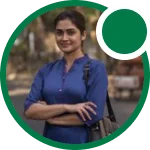
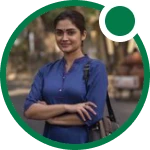
Restore the open book's depth and tease the shelf books
The v2 export had flattened both open-book states: no gutter, no board
sheen, and a contact shadow that sat under the shut cover instead of
arriving when the book lies open. Ported the numbers from the Android
build (ui/book) so the two stay in step, and matched the Figma
component's four parts: contact shadow, spread, gutter, pill.

Also: Monthly Relationship is now pitched in Kundli Milan's shelf (it
was pitched nowhere), the My Reports shelf books tease on alternating
0.7s/2.5s delays, and the avatar's "available" dot is a fresh export of
4097:12105 (it had shipped at 15px against Figma's 10px).

Changed region(s): [[0.64, 0.0267, 0.9867, 0.4]]

diff --git a/app.css b/app.css
@@ -325,16 +325,28 @@ img{display:block}
 .dp-book{position:absolute;left:50%;top:calc(274px + var(--sb) - 14px);width:211px;height:150px;margin-left:-105.5px;z-index:3;perspective:1100px}
 .dp-book .bk-move{position:absolute;inset:0;animation:bkRise .5s cubic-bezier(.22,.9,.3,1) .1s both,bkCenter 1.9s cubic-bezier(.33,1,.68,1) .9s both}
 .dp-book .spread{position:absolute;left:14px;top:14px;width:183px;height:122.8px;animation:bkReveal 1.9s steps(1,end) .9s both}
-.dp-book::after{content:"";position:absolute;left:31px;right:31px;top:126px;height:16px;border-radius:50%;background:radial-gradient(50% 50% at 50% 50%,rgba(74,24,8,.34),rgba(74,24,8,0) 72%);filter:blur(4px);z-index:-1}
+/* The book's weight on the hero. It only makes sense once the book is lying open,
+   so it arrives with the gutter rather than sitting under the shut cover. */
+.dp-book::after{content:"";position:absolute;left:31px;right:31px;top:126px;height:16px;border-radius:50%;background:radial-gradient(50% 50% at 50% 50%,rgba(74,24,8,.34),rgba(74,24,8,0) 72%);filter:blur(4px);z-index:-1;opacity:0;animation:fadeIn .5s ease 2.5s forwards}
+/* The gutter: both pages fall away into the spine, so the centre line is the
+   darkest part of the spread. Without it the open book reads as one flat card.
+   Multiplied, so it darkens the artwork instead of greying it. */
+.dp-book .bk-move::after{content:"";position:absolute;left:94.5px;top:22px;width:22px;height:103.8px;z-index:4;pointer-events:none;mix-blend-mode:multiply;opacity:0;animation:fadeIn .5s ease 2.5s forwards;
+  background:linear-gradient(90deg,rgba(142,97,72,0) 0,rgba(142,97,72,.30) 44%,rgba(142,97,72,.36) 50%,rgba(142,97,72,.30) 56%,rgba(142,97,72,0) 100%)}
 .dp-book .hinge{position:absolute;left:105.5px;top:18px;width:80px;height:114.5px;transform-style:preserve-3d}
 .dp-book .cov{position:absolute;inset:0;transform-origin:0 50%;transform-style:preserve-3d;animation:bkOpen 1.9s cubic-bezier(.33,1,.68,1) .9s both}
 .dp-book .cov span{position:absolute;inset:0;backface-visibility:hidden;-webkit-backface-visibility:hidden}
 .dp-book .cov .f{background-size:cover;background-position:center;border-radius:1px 4px 4px 1px;box-shadow:3px 0 0 rgba(74,24,8,.25),-6px 10px 20px -8px rgba(74,24,8,.45)}
+/* The hinge crease beside the spine: dark line, lit ridge, dark line, flat board,
+   all inside the first 9% of the board. */
 .dp-book .cov .f::before{content:"";position:absolute;inset:0;background:linear-gradient(90deg,rgba(0,0,0,.18) 0,rgba(255,255,255,.25) 3%,rgba(0,0,0,.1) 5%,transparent 9%)}
+/* And the sheen across the board, lit from the top left. A board with no sheen
+   turns like paper; this is what gives it a surface while it swings. */
+.dp-book .cov .f::after{content:"";position:absolute;inset:0;border-radius:inherit;background:linear-gradient(115deg,rgba(255,255,255,.18) 0,rgba(255,255,255,0) 45%,rgba(0,0,0,.06) 100%)}
 .dp-book .cov .b{transform:rotateY(180deg);background-size:183px 122.8px;background-position:-11.5px -4px}
-.dp-book .pill{position:absolute;left:29px;top:110px;width:153px;height:30px;border-radius:15px;opacity:0;animation:fadeIn .4s ease 2.7s forwards}
+.dp-book .pill{position:absolute;left:29px;top:110px;width:153px;height:30px;border-radius:15px;opacity:0;animation:fadeIn .4s ease 2.7s forwards;z-index:5}
 .dp-book .pill img{width:153px;height:30px}
-.dp-book.done .bk-move,.dp-book.done .spread,.dp-book.done .cov,.dp-book.done .pill{animation-delay:0s;animation-duration:.01s}
+.dp-book.done .bk-move,.dp-book.done .bk-move::after,.dp-book.done .spread,.dp-book.done .cov,.dp-book.done .pill,.dp-book.done::after{animation-delay:0s;animation-duration:.01s}
 @keyframes bkRise{from{opacity:0;transform:translateY(14px) scale(.97)}to{opacity:1;transform:none}}
 @keyframes bkCenter{0%{translate:-46px 0}78%,100%{translate:0 0}}
 @keyframes bkOpen{0%{transform:rotateY(0)}78%{transform:rotateY(-184deg)}100%{transform:rotateY(-180deg)}}
@@ -353,7 +365,7 @@ img{display:block}
 .ups .bk{position:relative}
 .ups .bk .tease{left:0;top:0;width:55.3px;height:82.7px}
 .ups:nth-of-type(2) .bk .tease .cv{animation-delay:2.5s}
-@media (prefers-reduced-motion:reduce){.tease .cv,.dp-book *{animation:none!important}.dp-book .pill{opacity:1}.dp-book .cov{transform:rotateY(-180deg)}}
+@media (prefers-reduced-motion:reduce){.tease .cv,.dp-book *,.dp-book::after,.dp-book .bk-move::after,.dp-book .cov .f::after{animation:none!important}.dp-book .pill,.dp-book::after,.dp-book .bk-move::after{opacity:1}.dp-book .cov{transform:rotateY(-180deg)}}
 .dp-card{position:relative;margin:-33px 16px 0;background:#fff;border-radius:20px;padding:44px 16px 16px;display:flex;flex-direction:column;gap:12px;z-index:2}
 .dp-card h1{margin:0;text-align:center;font:700 20px/30px var(--sans);color:var(--g800)}
 .stats{display:flex;align-items:center;gap:10px;padding:0 1px}
@@ -449,7 +461,13 @@ img{display:block}
 .opt.on i{border:6px solid var(--brand)}
 .pay{position:relative;padding-top:64px}
 .sheet .obook{position:absolute;left:50%;top:-106px;width:252px;height:169px;margin-left:-126px;z-index:2}
-.sheet .obook img{width:252px;height:169px}
+.sheet .obook img{position:relative;z-index:1;width:252px;height:169px}
+/* The same open book as the detail hero, 1.38x bigger, so it carries the same two
+   things: the gutter the pages fall away into, and its weight on the sheet below.
+   Without them a book at this size reads as a flat picture of a book. */
+.sheet .obook:not(.closed)::before{content:"";position:absolute;left:10.35px;top:154px;width:231.3px;height:22px;border-radius:50%;background:radial-gradient(50% 50% at 50% 50%,rgba(74,24,8,.34),rgba(74,24,8,0) 72%);filter:blur(5.5px)}
+.sheet .obook:not(.closed)::after{content:"";position:absolute;left:110.85px;top:11px;width:30.3px;height:142.9px;z-index:2;pointer-events:none;mix-blend-mode:multiply;
+  background:linear-gradient(90deg,rgba(142,97,72,0) 0,rgba(142,97,72,.30) 44%,rgba(142,97,72,.36) 50%,rgba(142,97,72,.30) 56%,rgba(142,97,72,0) 100%)}
 .sheet .obook.closed{width:87px;height:124px;margin-left:-43px;top:-84px}
 .pay .in{padding:0 16px 20px;display:flex;flex-direction:column;gap:16px}
 .pay .ttl{text-align:center}

diff --git a/app.js b/app.js
@@ -51,7 +51,7 @@ var R = {
            ['KR', 'Kavya R.', 'Chennai', 'Two pandits told me I’m Manglik and I cried for weeks. This showed it’s cancelled in my chart, and why. We’re married now.', 'Manglik doubt cleared'],
            ['PN', 'Pooja N.', 'Bhopal', 'It said the first six months with my in-laws would be tough. It was, almost week by week. Knowing that helped me not take it personally.', 'In-laws matched'],
            ['IG', 'Isha G.', 'Lucknow', 'It showed our Nadi dosha and a simple remedy. My parents only agreed after reading that page. Worth way more than ₹49.', 'Nadi remedy helped']],
-    ups: ['m', 'w'], up: ['4.8', '96,440 reads', '96k'], payMeta: 'One-time payment · per couple', why: 'See which dosha matters, and what you can do',
+    ups: ['m', 'r'], up: ['4.8', '96,440 reads', '96k'], payMeta: 'One-time payment · per couple', why: 'See which dosha matters, and what you can do',
     hist: 'See how well you and Rahul match'
   },
   w: {
@@ -716,9 +716,11 @@ BUILD.mine = function () {
   var more = ['m', 'k', 'w', 'r'].filter(function (k) { return !S.own[k]; });
   var SHELF = { m: 'Marriage Prediction', k: 'Kundli Milan Report', w: 'Monthly Wealth Report', r: 'Monthly Relationship Report' };
   var h = '<div class="mr-top"><div class="in"><button type="button" data-act="back" aria-label="Back"><img src="' + A('mr_back.png') + '" alt=""></button><h1>My Reports</h1></div></div>' +
-    '<div class="scroll">' + list + (more.length ? '<div class="mr-h">' + (owned.length ? 'More reports for you' : 'Popular reports') + '</div><div class="hrow shelf">' + more.map(function (k) {
+    '<div class="scroll">' + list + (more.length ? '<div class="mr-h">' + (owned.length ? 'More reports for you' : 'Popular reports') + '</div><div class="hrow shelf">' + more.map(function (k, i) {
       var r = R[k];
-      return '<button type="button" class="scard" data-act="openRep" data-rep="' + k + '"><span class="cv">' + book(k, 87) + '</span><b>' + SHELF[k] + '</b><span class="m"><img src="' + A('shelf_star.png') + '" alt="">' + r.up[0] + ' · ' + r.up[2] + ' reads</span><span class="p"><b>₹49</b><s>₹499</s><em>90% off</em></span></button>';
+      /* The books tease here too. Staggered 0.7s / 2.5s and alternating, so the shelf
+         catches the eye one book at a time instead of flapping in unison. */
+      return '<button type="button" class="scard" data-act="openRep" data-rep="' + k + '"><span class="cv">' + book(k, 87, true, i % 2 ? 2.5 : 0.7) + '</span><b>' + SHELF[k] + '</b><span class="m"><img src="' + A('shelf_star.png') + '" alt="">' + r.up[0] + ' · ' + r.up[2] + ' reads</span><span class="p"><b>₹49</b><s>₹499</s><em>90% off</em></span></button>';
     }).join('') + '</div>' : '') + '</div>';
   return { html: h };
 };
